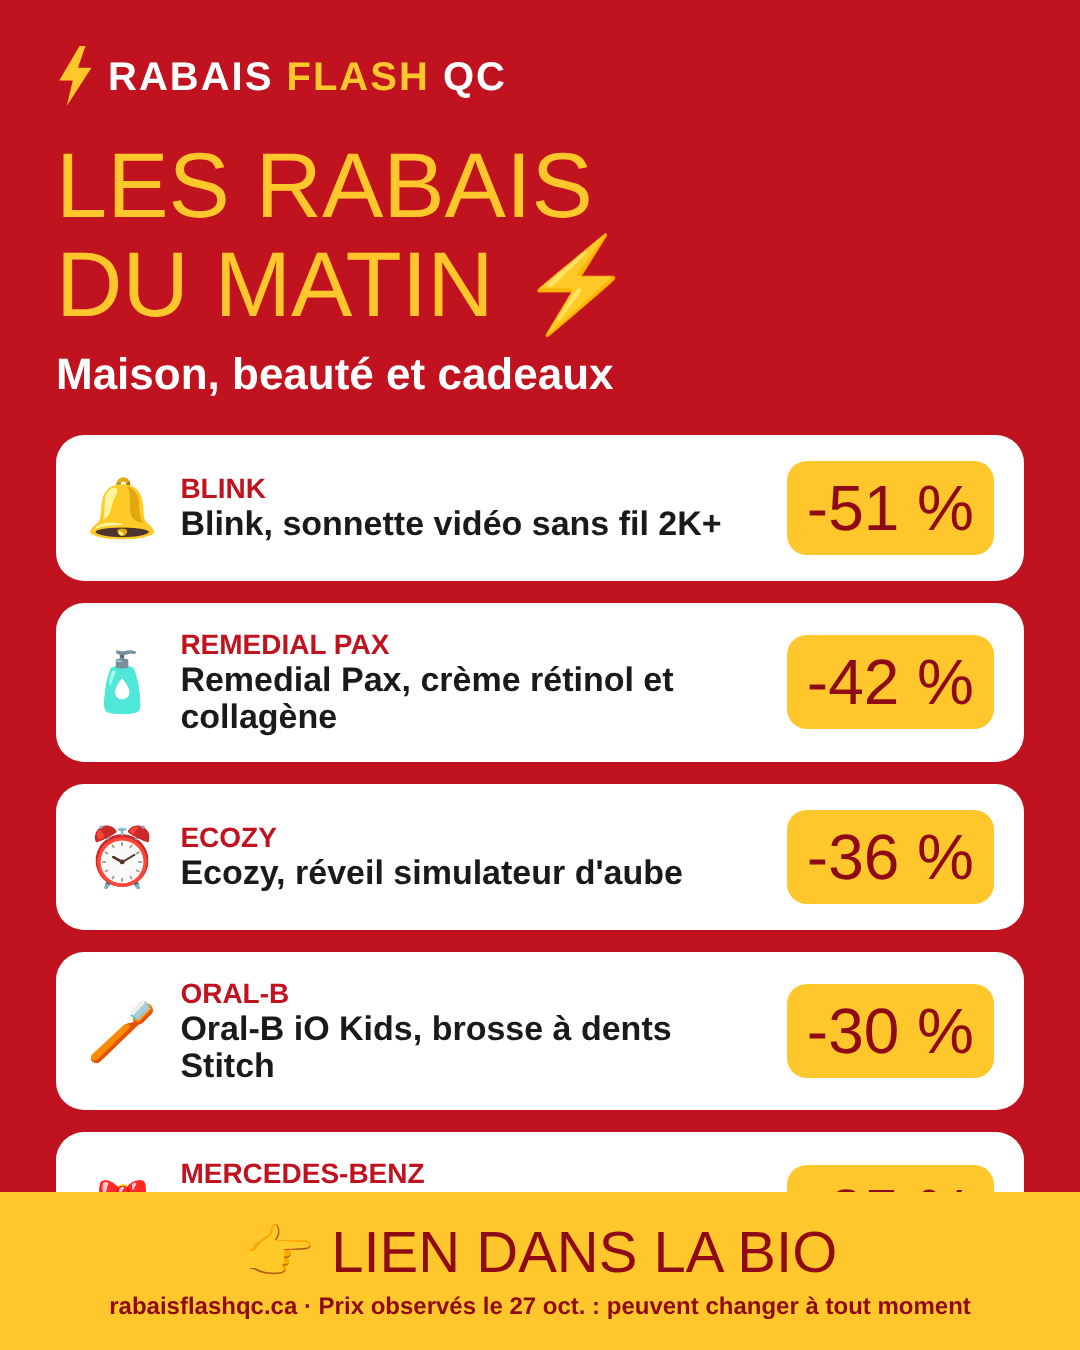
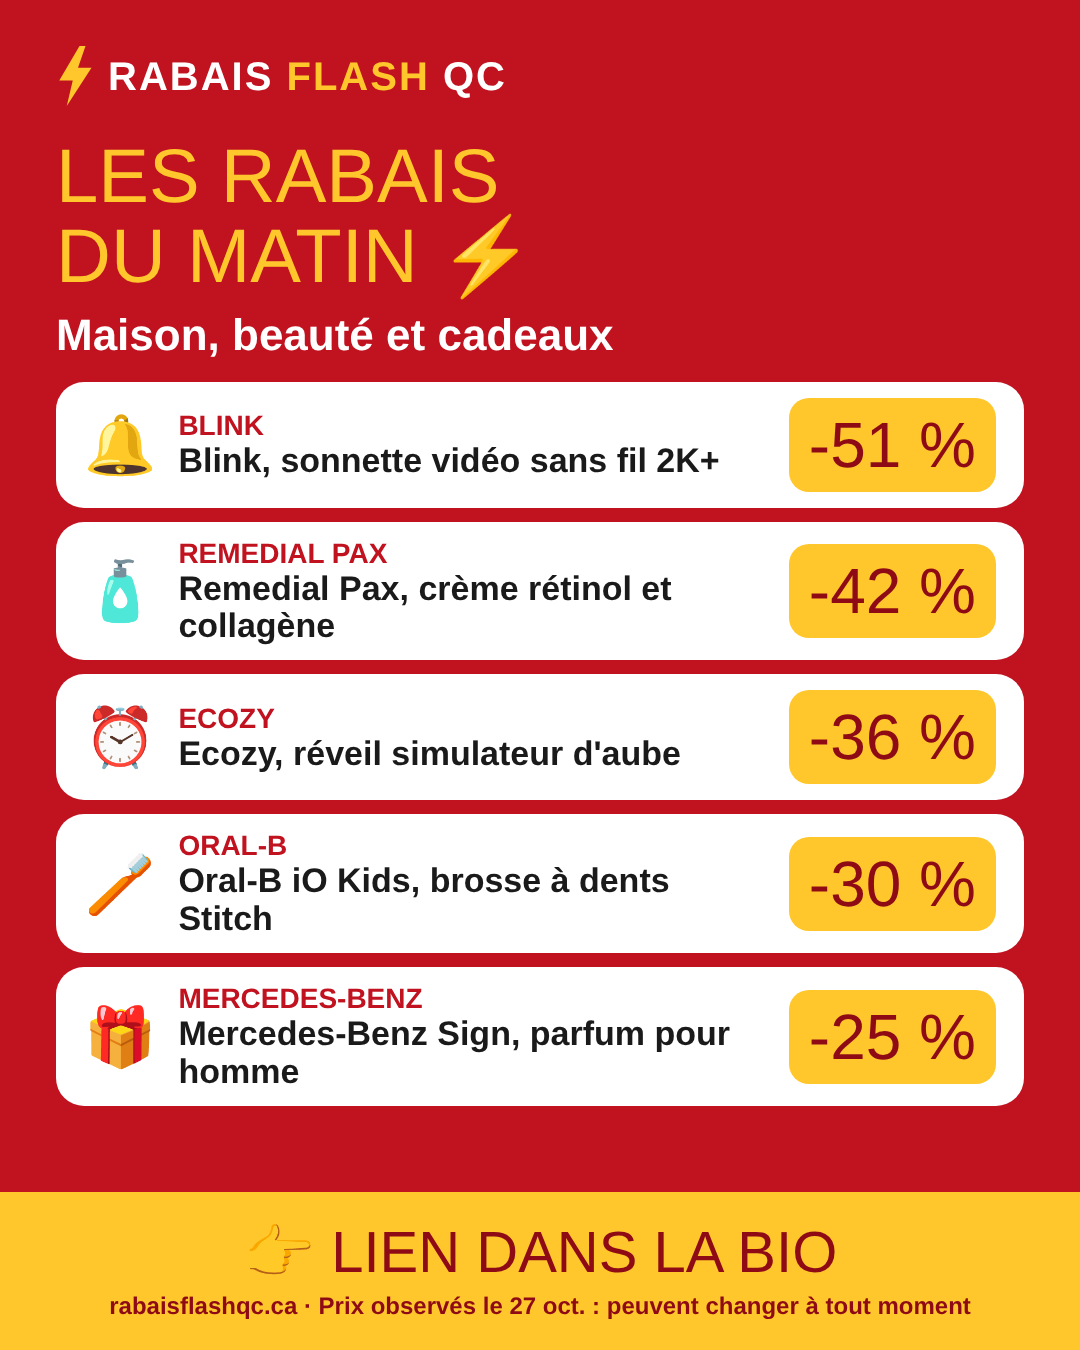
Image du matin 28 oct : mise en page 5 deals
Claude-Session: https://claude.ai/code/session_01HW5uRT3Hg9tE1zPApACyfK

Changed region(s): [[0.0306, 0.0933, 0.9472, 0.9022]]

diff --git a/matin28.py b/matin28.py
@@ -5,11 +5,11 @@ import pack, build
 from playwright.sync_api import sync_playwright
 e=H.escape
 CSS=open('soir_flash.py').read().split('CSS = """')[1].split('"""')[0]
-CSS+=".row{background:#fff;color:#1A1A1A;border-radius:28px;padding:26px 30px;display:flex;align-items:center;gap:22px;margin-bottom:22px}.bd2{background:#FFC72C;color:#8E0B16;border-radius:20px;padding:10px 20px;font-family:Anton,Impact,sans-serif;font-size:64px;flex:none}"
+CSS+=".row{background:#fff;color:#1A1A1A;border-radius:28px;padding:16px 28px;display:flex;align-items:center;gap:22px;margin-bottom:14px}.bd2{background:#FFC72C;color:#8E0B16;border-radius:20px;padding:10px 20px;font-family:Anton,Impact,sans-serif;font-size:64px;flex:none}"
 pick=[("B0G62C4S5S","Blink, sonnette vidéo sans fil 2K+","🔔"),("B0FF9Y16LK","Remedial Pax, crème rétinol et collagène","🧴"),("B09YHBRHC4","Ecozy, réveil simulateur d'aube","⏰"),("B0FLKLJDS8","Oral-B iO Kids, brosse à dents Stitch","🪥"),("B09JPTZQKM","Mercedes-Benz Sign, parfum pour homme","🎁")]
 D={d["asin"]:d for d in build.data["deals"] if d.get("asin")}
 rows="".join(f'<div class="row"><div style="font-size:58px">{ic}</div><div style="flex:1"><div style="font-size:28px;font-weight:700;color:#C1121F;text-transform:uppercase">{e(D[a]["brand"])}</div><div style="font-size:34px;font-weight:700;line-height:1.1">{e(t)}</div></div><div class="bd2">{e(pack.pct_txt(D[a]))}</div></div>' for a,t,ic in pick)
-html=f'<!doctype html><html><head><meta charset="utf-8">{pack.FONTS}<style>{CSS}</style></head><body><div class="top">{pack.BOLT}<span>RABAIS <b>FLASH</b> QC</span></div><h1 class="an" style="font-size:92px;line-height:1.08">LES RABAIS<br>DU MATIN ⚡</h1><h2>Maison, beauté et cadeaux</h2><div style="padding:36px 56px 0">{rows}</div><div class="foot"><div class="u an">👉 LIEN DANS LA BIO</div><div class="s">rabaisflashqc.ca · Prix observés le 27 oct. : peuvent changer à tout moment</div></div></body></html>'
+html=f'<!doctype html><html><head><meta charset="utf-8">{pack.FONTS}<style>{CSS}</style></head><body><div class="top">{pack.BOLT}<span>RABAIS <b>FLASH</b> QC</span></div><h1 class="an" style="font-size:76px;line-height:1.05">LES RABAIS<br>DU MATIN ⚡</h1><h2>Maison, beauté et cadeaux</h2><div style="padding:22px 56px 0">{rows}</div><div class="foot"><div class="u an">👉 LIEN DANS LA BIO</div><div class="s">rabaisflashqc.ca · Prix observés le 27 oct. : peuvent changer à tout moment</div></div></body></html>'
 tmp=pathlib.Path(tempfile.mkdtemp())
 with sync_playwright() as pw:
     br,ctx,pg=pack.render(pw,html,(1080,1350),tmp,"matin-28oct")
